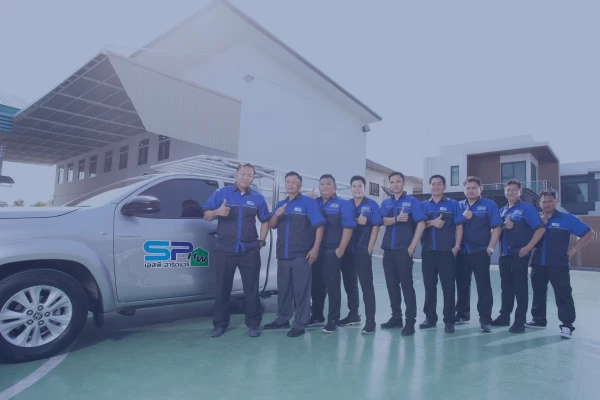
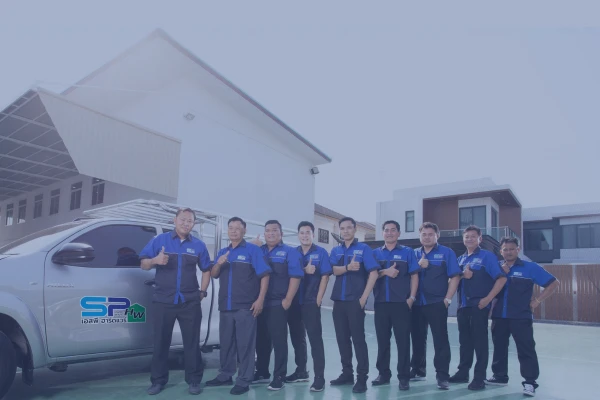
feat: Add mobile-specific hero images
- Add srcMobile field to hero images configuration
- Implement responsive image display for mobile/desktop
- Add HeroImage type definition
- Support separate hero images for mobile viewport
- Images from hero-mobile folder for better mobile UX

diff --git a/app/page.tsx b/app/page.tsx
@@ -83,11 +83,29 @@ export default function Home() {
                 index === currentSlide ? 'opacity-100' : 'opacity-0'
               }`}
             >
+              {/* Desktop Image */}
               {/* eslint-disable-next-line @next/next/no-img-element */}
               <img
                 src={image.src}
                 alt={image.alt}
-                className="absolute inset-0 w-full h-full object-cover select-none pointer-events-none"
+                className="hidden sm:block absolute inset-0 w-full h-full object-cover select-none pointer-events-none"
+                draggable={false}
+                loading={index === 0 ? "eager" : "lazy"}
+                style={{
+                  imageRendering: 'crisp-edges',
+                  filter: 'contrast(1.1) saturate(1.05)',
+                  backfaceVisibility: 'hidden',
+                  transform: 'translateZ(0)',
+                  willChange: 'transform'
+                }}
+              />
+              
+              {/* Mobile Image */}
+              {/* eslint-disable-next-line @next/next/no-img-element */}
+              <img
+                src={image.srcMobile || image.src}
+                alt={image.alt}
+                className="block sm:hidden absolute inset-0 w-full h-full object-cover select-none pointer-events-none"
                 draggable={false}
                 loading={index === 0 ? "eager" : "lazy"}
                 style={{
@@ -166,8 +184,16 @@ export default function Home() {
                     fill
                     className="object-cover"
                     quality={95}
+                    unoptimized={true}
                     sizes="(max-width: 768px) 100vw, (max-width: 1024px) 50vw, 33vw"
                     priority={index < 3}
+                    style={{
+                      imageRendering: 'crisp-edges',
+                      filter: 'contrast(1.1) saturate(1.05)',
+                      backfaceVisibility: 'hidden',
+                      transform: 'translateZ(0)',
+                      willChange: 'transform'
+                    }}
                   />
                   
                   {/* Dark Overlay */}
@@ -209,8 +235,16 @@ export default function Home() {
                       fill
                       className="object-cover"
                       quality={95}
+                      unoptimized={true}
                       sizes="(max-width: 768px) 100vw, (max-width: 1024px) 50vw, 33vw"
                       priority={index < 3}
+                      style={{
+                        imageRendering: 'crisp-edges',
+                        filter: 'contrast(1.1) saturate(1.05)',
+                        backfaceVisibility: 'hidden',
+                        transform: 'translateZ(0)',
+                        willChange: 'transform'
+                      }}
                     />
                     
                     {/* Dark Overlay */}
@@ -261,8 +295,16 @@ export default function Home() {
                       fill
                       className="object-cover"
                       quality={95}
+                      unoptimized={true}
                       sizes="(max-width: 1024px) 50vw, 40vw"
                       priority={true}
+                      style={{
+                        imageRendering: 'crisp-edges',
+                        filter: 'contrast(1.1) saturate(1.05)',
+                        backfaceVisibility: 'hidden',
+                        transform: 'translateZ(0)',
+                        willChange: 'transform'
+                      }}
                     />
                     
                     {/* Dark Overlay */}
@@ -307,8 +349,16 @@ export default function Home() {
                         fill
                         className="object-cover"
                         quality={95}
+                        unoptimized={true}
                         sizes="(max-width: 1024px) 50vw, 40vw"
                         priority={true}
+                        style={{
+                          imageRendering: 'crisp-edges',
+                          filter: 'contrast(1.1) saturate(1.05)',
+                          backfaceVisibility: 'hidden',
+                          transform: 'translateZ(0)',
+                          willChange: 'transform'
+                        }}
                       />
                       
                       {/* Dark Overlay */}
@@ -360,8 +410,16 @@ export default function Home() {
                       fill
                       className="object-cover"
                       quality={95}
+                      unoptimized={true}
                       sizes="(max-width: 1024px) 100vw, 50vw"
                       priority={true}
+                      style={{
+                        imageRendering: 'crisp-edges',
+                        filter: 'contrast(1.1) saturate(1.05)',
+                        backfaceVisibility: 'hidden',
+                        transform: 'translateZ(0)',
+                        willChange: 'transform'
+                      }}
                     />
                     
                     {/* Dark Overlay */}
@@ -407,8 +465,16 @@ export default function Home() {
                         fill
                         className="object-cover"
                         quality={95}
+                        unoptimized={true}
                         sizes="(max-width: 1024px) 100vw, 50vw"
                         priority={true}
+                        style={{
+                          imageRendering: 'crisp-edges',
+                          filter: 'contrast(1.1) saturate(1.05)',
+                          backfaceVisibility: 'hidden',
+                          transform: 'translateZ(0)',
+                          willChange: 'transform'
+                        }}
                       />
                       
                       {/* Dark Overlay */}

diff --git a/app/data/homepage-data.ts b/app/data/homepage-data.ts
@@ -1,21 +1,20 @@
 // Homepage data - extracted to separate file for better organization
+import { HeroImage } from '@/lib/types';
 
-export const heroImages = [
+export const heroImages: HeroImage[] = [
   {
     src: "/hero-promotion/1.png",
+    srcMobile: "/hero-mobile/1.png",
     alt: "SP Hardware - วัสดุก่อสร้างครบวงจร"
   },
   {
     src: "/hero-promotion/2.png",
+    srcMobile: "/hero-mobile/2.png",
     alt: "SP Hardware - คุณภาพระดับพรีเมียม"  
   },
   {
     src: "/hero-promotion/3.png",
-    alt: "SP Hardware - เครื่องมือมืออาชีพ"
-  },
-  
-{
-    src: "/hero-promotion/4.png",
+    srcMobile: "/hero-mobile/3.png",
     alt: "SP Hardware - เครื่องมือมืออาชีพ"
   }
 ];

diff --git a/lib/types.ts b/lib/types.ts
@@ -38,6 +38,13 @@ export interface Product {
   category?: Category;
 }
 
+// Hero Image type
+export interface HeroImage {
+  src: string;
+  srcMobile?: string;
+  alt: string;
+}
+
 // Cart and Order types
 export interface CartItem {
   id: number;
